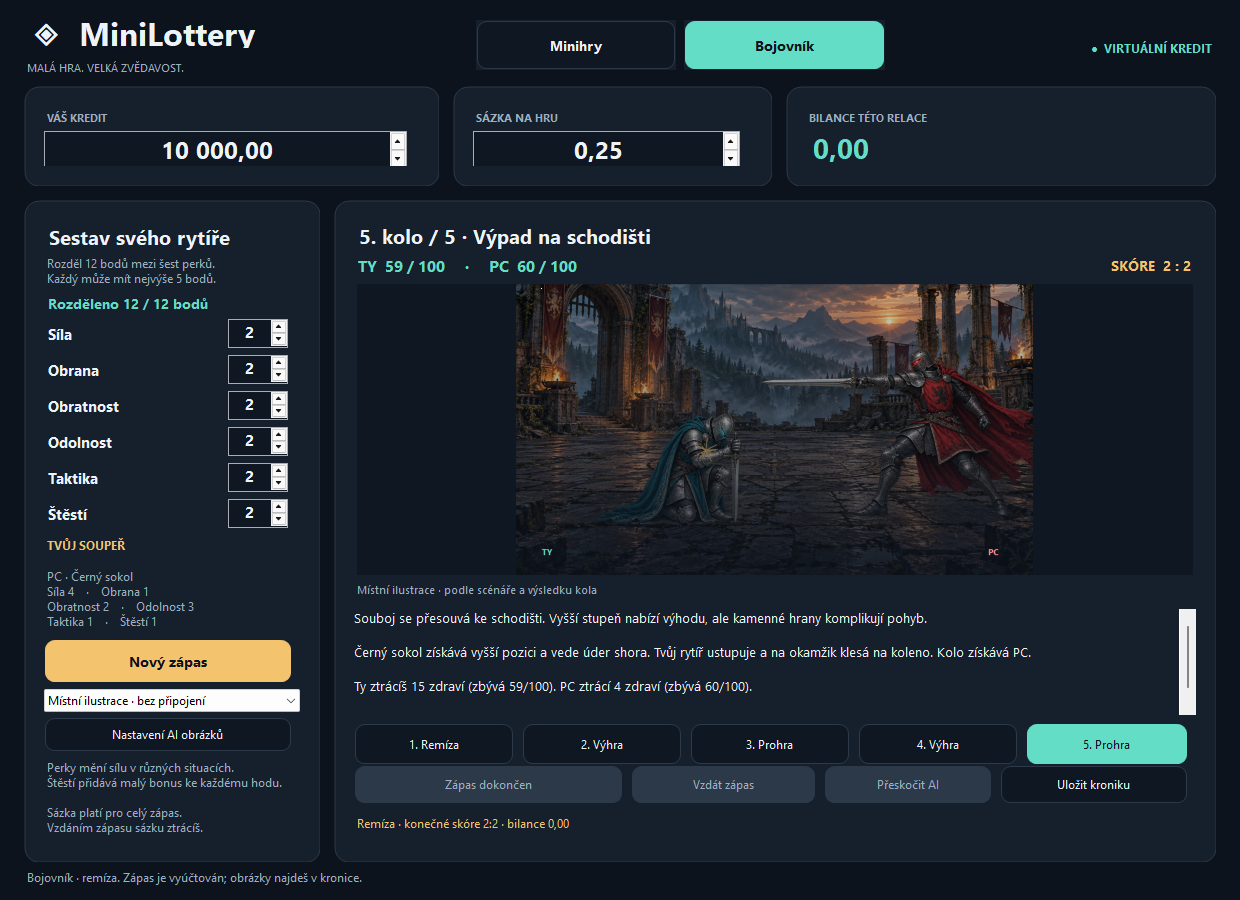
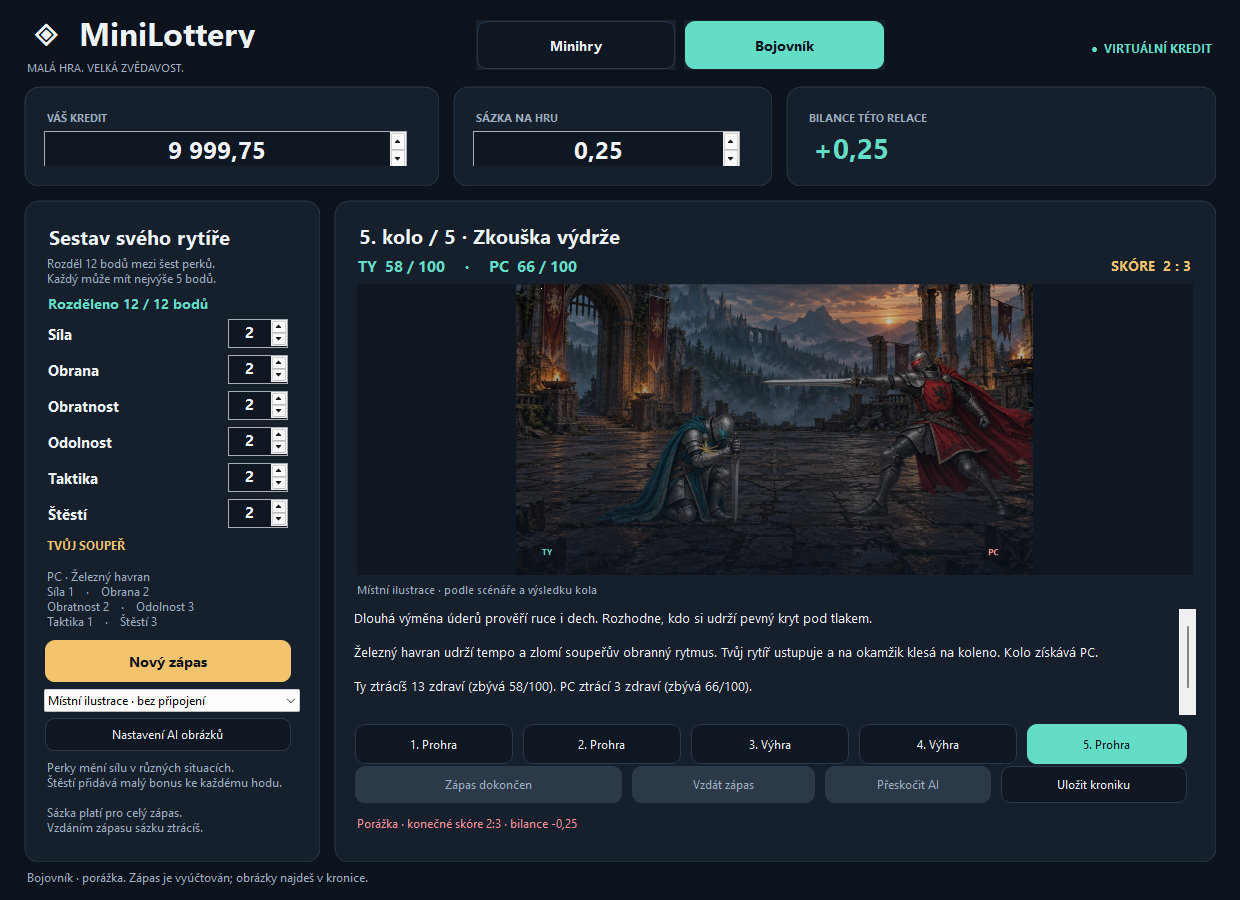
Record verified Warrior Windows build and final UI preview

diff --git a/minilottery/README.md b/minilottery/README.md
@@ -4,7 +4,7 @@ Desktopový simulátor pro Windows, C# / Windows Forms / .NET 8. Kredit je virtu
 
 ![Skutečné Windows Forms rozhraní při testovacím běhu](docs/minilottery-preview.png)
 
-Ověřeno na Windows v [CI běhu 34757832080](https://github.com/RadimStud/devproject/actions/runs/34757832080): 313 kontrol miniher, 5126 kontrol Bojovníka a simulovaného obrázkového API, 50 kontrol UI, build bez varování. [Windows balíček a screenshoty](https://github.com/RadimStud/devproject/actions/runs/34757832080/artifacts/10318225379). Náhledy zachycují skutečné nativní ovládací prvky v rozložení 1240 × 900; hodnoty jsou z náhodného testovacího běhu. Kód odpovídá commitu fb51aa640718f76902898fca605ac44a35837f84.
+Ověřeno na Windows v [CI běhu 34758006447](https://github.com/RadimStud/devproject/actions/runs/34758006447): 313 kontrol miniher, 5126 kontrol Bojovníka a simulovaného obrázkového API, 50 kontrol UI, build bez varování. [Windows balíček a screenshoty](https://github.com/RadimStud/devproject/actions/runs/34758006447/artifacts/10317504775). Náhledy zachycují skutečné nativní ovládací prvky v rozložení 1240 × 900; hodnoty jsou z náhodného testovacího běhu. Aplikační a testovací kód odpovídá ověřenému commitu 6c1a343b9d5f2e4db9fd8e8112a47680541d1fbb. Poslední změna aktualizuje pouze dokumentaci a náhled.
 
 Nová záložka **Bojovník**: vlastní perky, nezávislá sestava PC, sázka na zápas, pět různých bojových scénářů a kronika s ilustracemi. [Pravidla a nastavení AI obrázků](docs/bojovnik.md).
 
